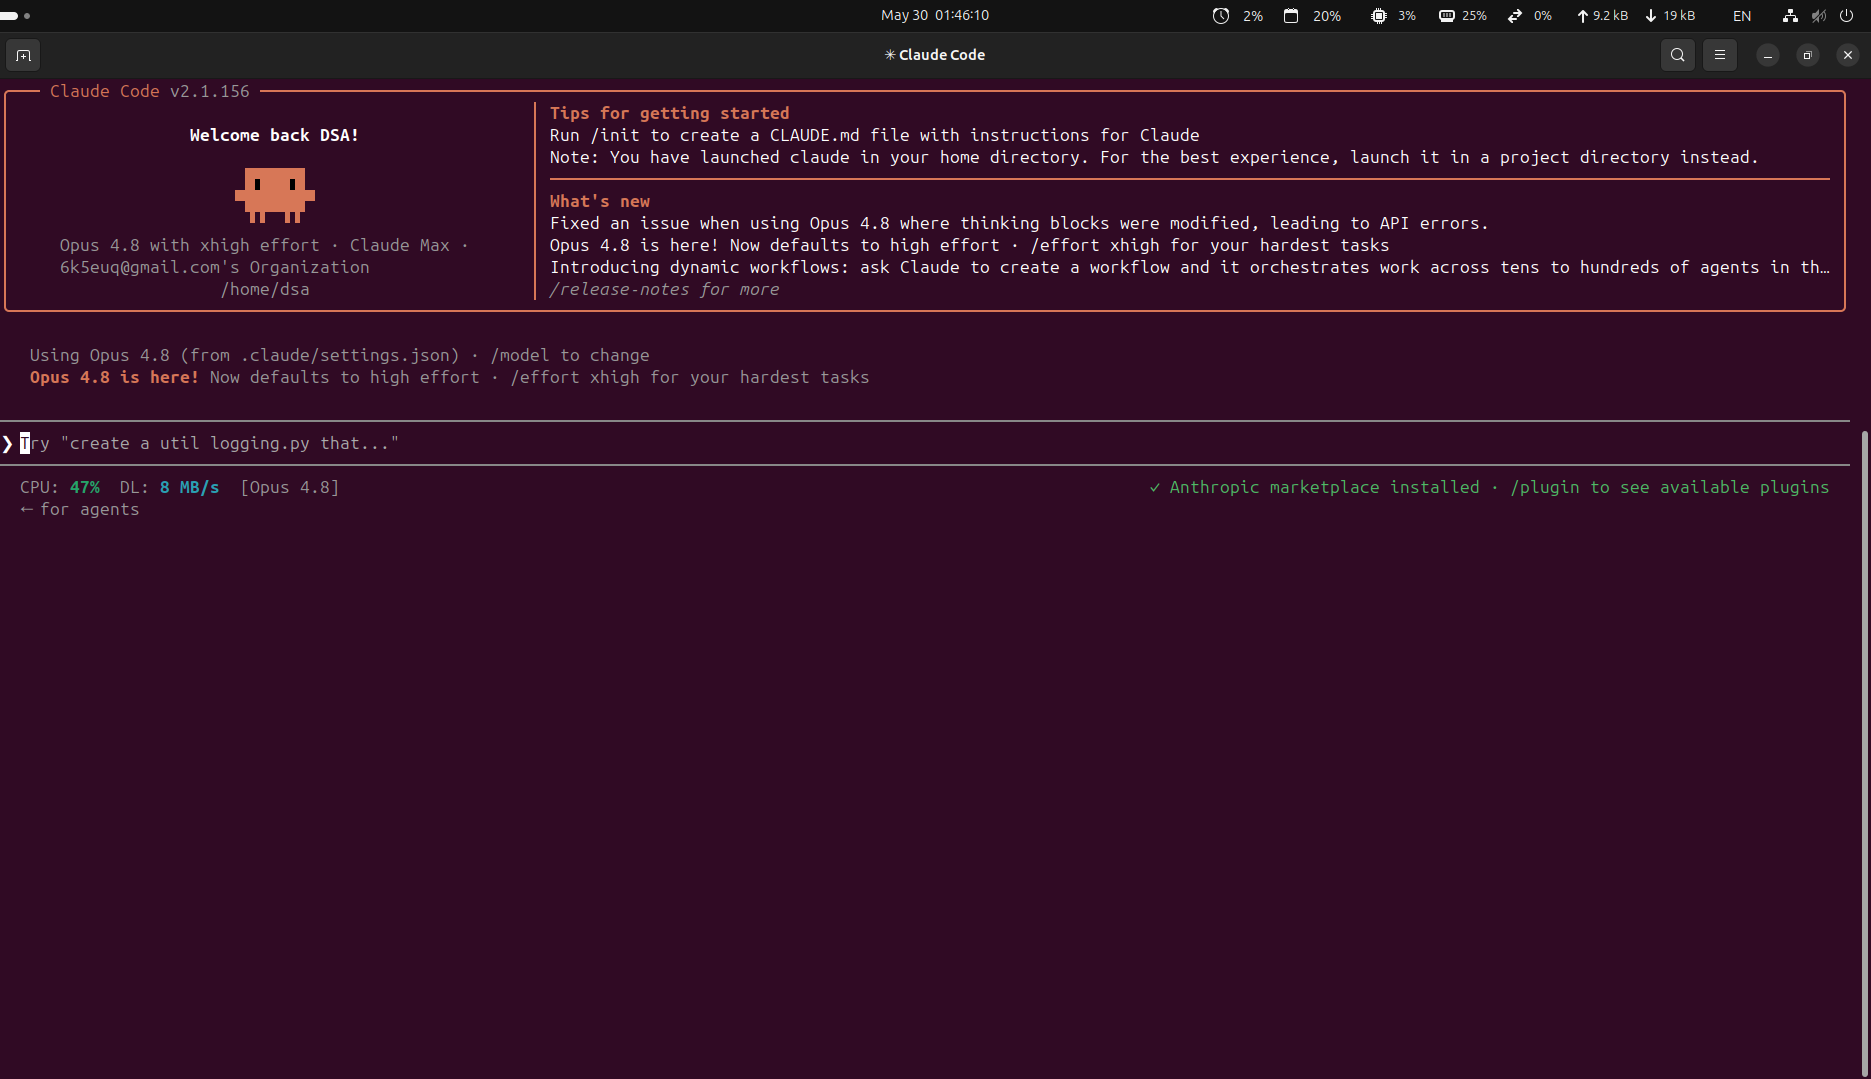
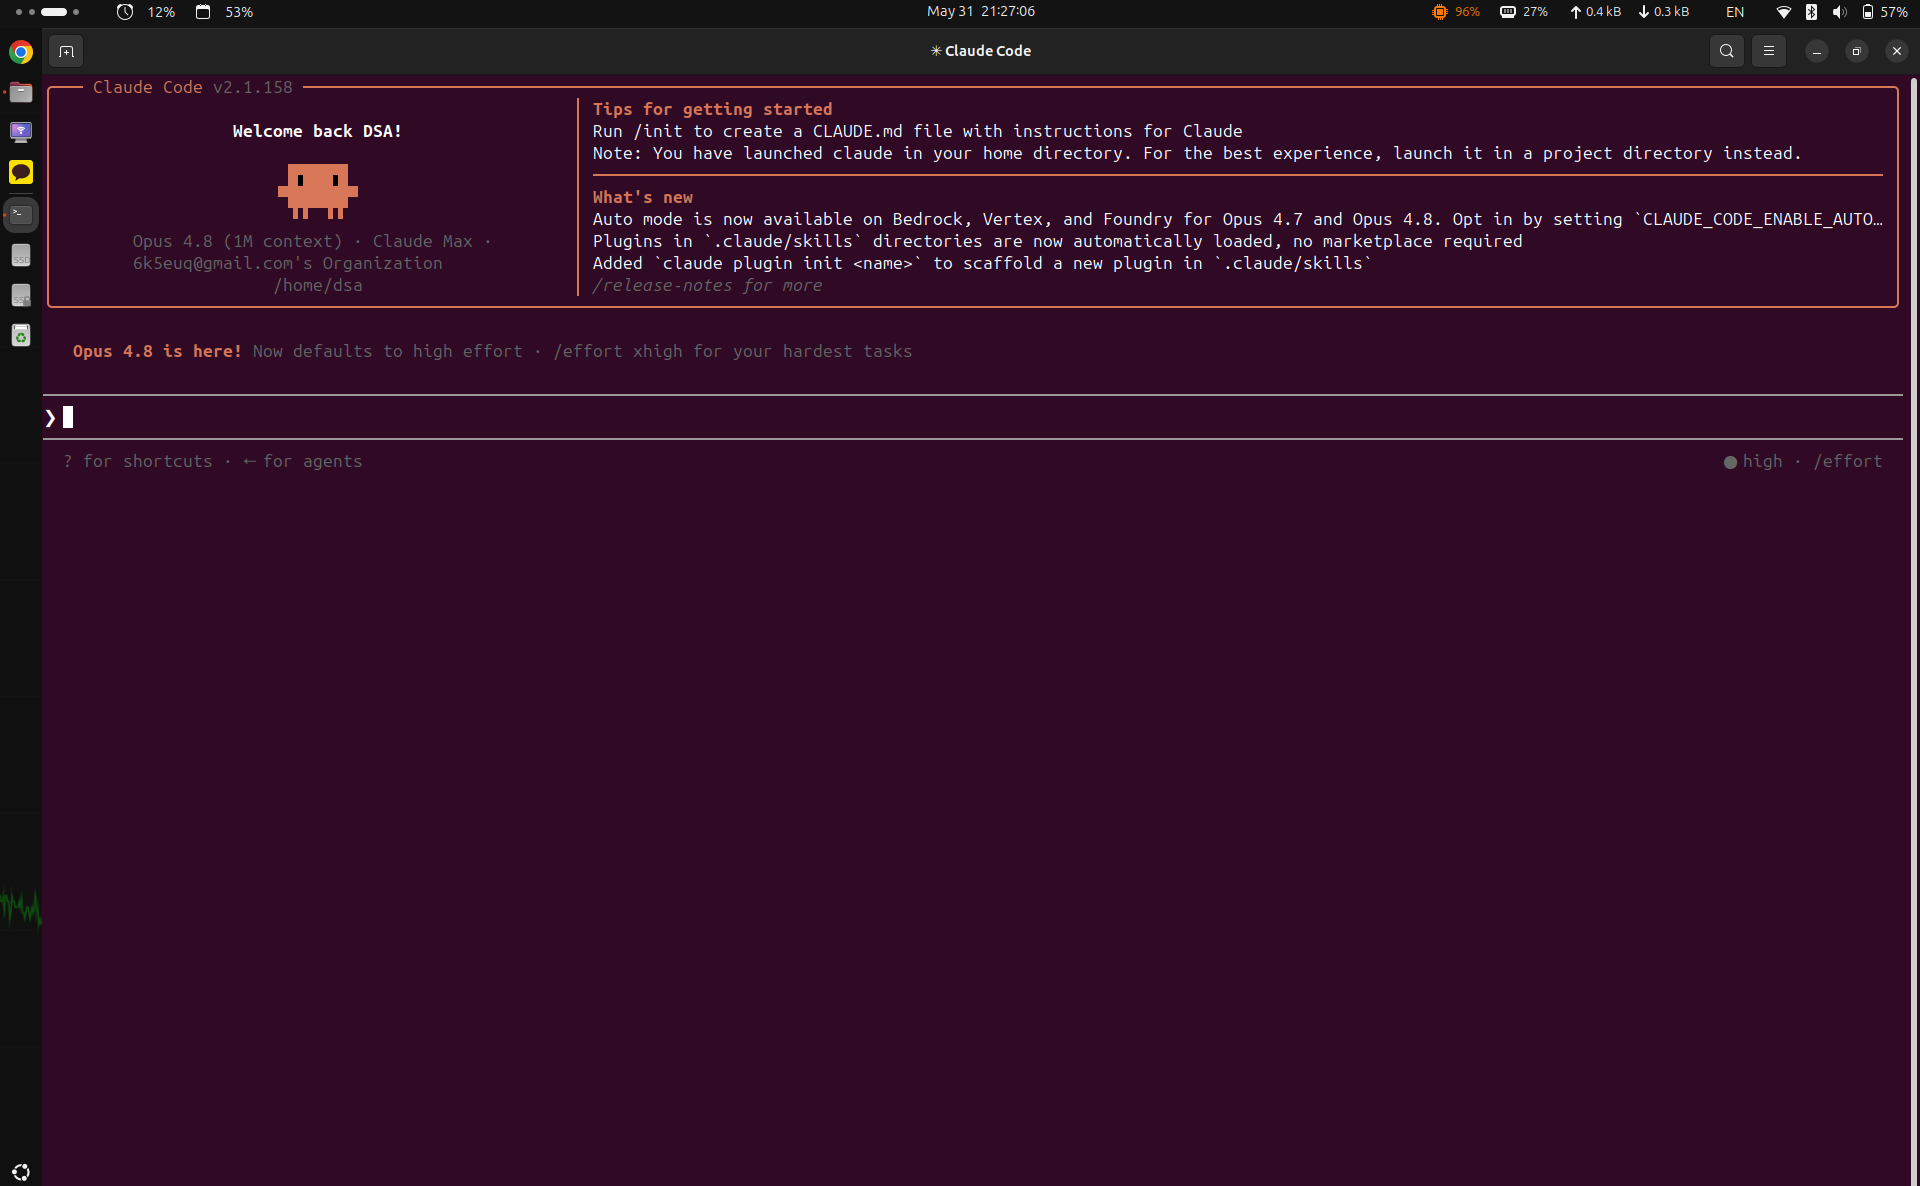
docs: update top-bar screenshot and add full top-bar image
Refresh top-bar.png and add indicator_full.png showing the indicator at
the left of the top bar (after the v1.2.0 placement change), and update
the README captions to match the new left-aligned placement.

Changed region(s): [[0.0, 0.0, 1.0, 1.0], [0.682, 0.0, 0.713, 0.0306], [0.062, 0.0, 0.093, 0.0306]]

diff --git a/README.md b/README.md
@@ -10,11 +10,17 @@ percentages and reset times in its dropdown menu.
   <img src="docs/indicator.png" alt="Claude Usage indicator: 2% for the 5-hour window and 20% for the 7-day window">
 </p>
 
-A compact ⏰ (5-hour) / 📅 (7-day) readout that sits in the GNOME top bar
-alongside your other system indicators:
+A compact ⏰ (5-hour) / 📅 (7-day) readout that sits at the left of the
+GNOME top bar, clear of your other system indicators:
 
 <p align="center">
-  <img src="docs/top-bar.png" alt="The Claude Usage indicator in the GNOME top bar, next to the system clock and tray icons" width="900">
+  <img src="docs/indicator_full.png" alt="The Claude Usage indicator at the left of the GNOME top bar, with the clock centered and the system-monitor stats on the right" width="900">
+</p>
+
+…and in context on the desktop:
+
+<p align="center">
+  <img src="docs/top-bar.png" alt="The Claude Usage indicator at the left of the GNOME top bar, above a Claude Code terminal" width="900">
 </p>
 
 ## Features
